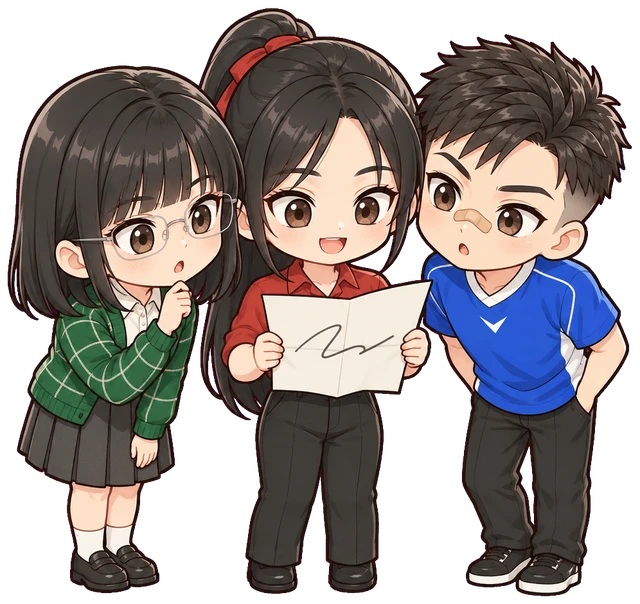
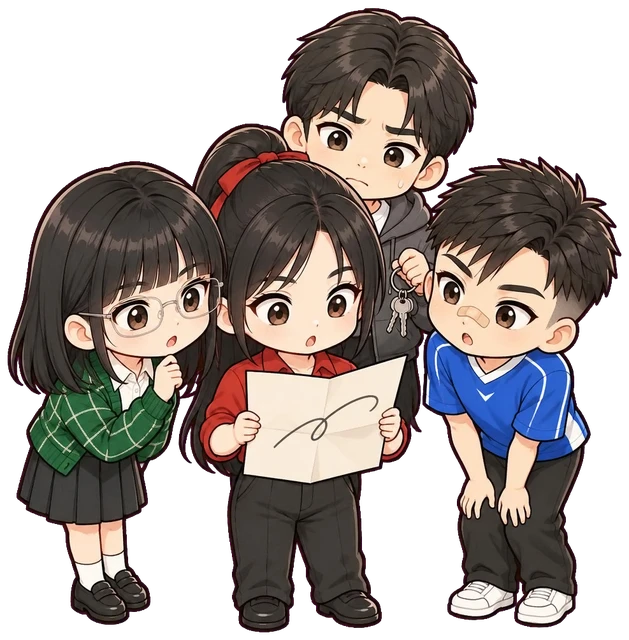
CG bìa và kết thường có đủ năm người (Minh Anh ở giữa cảnh kết thường), chibi lá thư thêm Duy, chibi bê vali làm lại (bỏ nồi cơm, Tùng nâng đáy vali, mặc áo tình nguyện); CG ăn mừng cg-ket-mua chèn vào cảnh đóng hồ sơ mùa cuối Vụ 5

diff --git a/art/nguon/xu-ly-anh-dan-moi-2026-10-01.py b/art/nguon/xu-ly-anh-dan-moi-2026-10-01.py
@@ -86,6 +86,9 @@ def xu_ly(f: Path) -> str:
     elif ten.startswith('doc-'):
         dich = A / 'mvp/giay' / f'{ten}.webp'
         im.convert('RGB').resize((880, 1184), Image.LANCZOS).save(dich, quality=88)
+    elif ten.startswith('bgvn-'):  # nền cũ thêm chi tiết Việt Nam (02/10): ghi đè bg-mvp-<cảnh>
+        dich = A / 'mvp/nen' / f"bg-mvp-{ten.removeprefix('bgvn-')}.webp"
+        im.convert('RGB').resize((1360, 768), Image.LANCZOS).save(dich, quality=88)
     elif ten.startswith('bg-'):
         dich = A / 'mvp/nen' / f'{ten}.webp'
         im.convert('RGB').resize((1360, 768), Image.LANCZOS).save(dich, quality=88)

diff --git a/prototype/noi-dung-mvp/kich-ban/13-vu-5-so-quy.md b/prototype/noi-dung-mvp/kich-ban/13-vu-5-so-quy.md
@@ -157,6 +157,7 @@
 ### v5-chot — Phòng CLB: đóng hồ sơ mùa {cảnh: phong-clb}
 
 - [LỜI v5-ket-luan.1]
+- [ẢNH cg-ket-mua]
 - [NẾU có clue-loi-nhan-linh-1 và có clue-loi-nhan-linh-2 và có clue-loi-nhan-linh-3 và có clue-loi-nhan-linh-4] → đi tới v5-ngan-tu
 - [KẾT THÚC]
 
